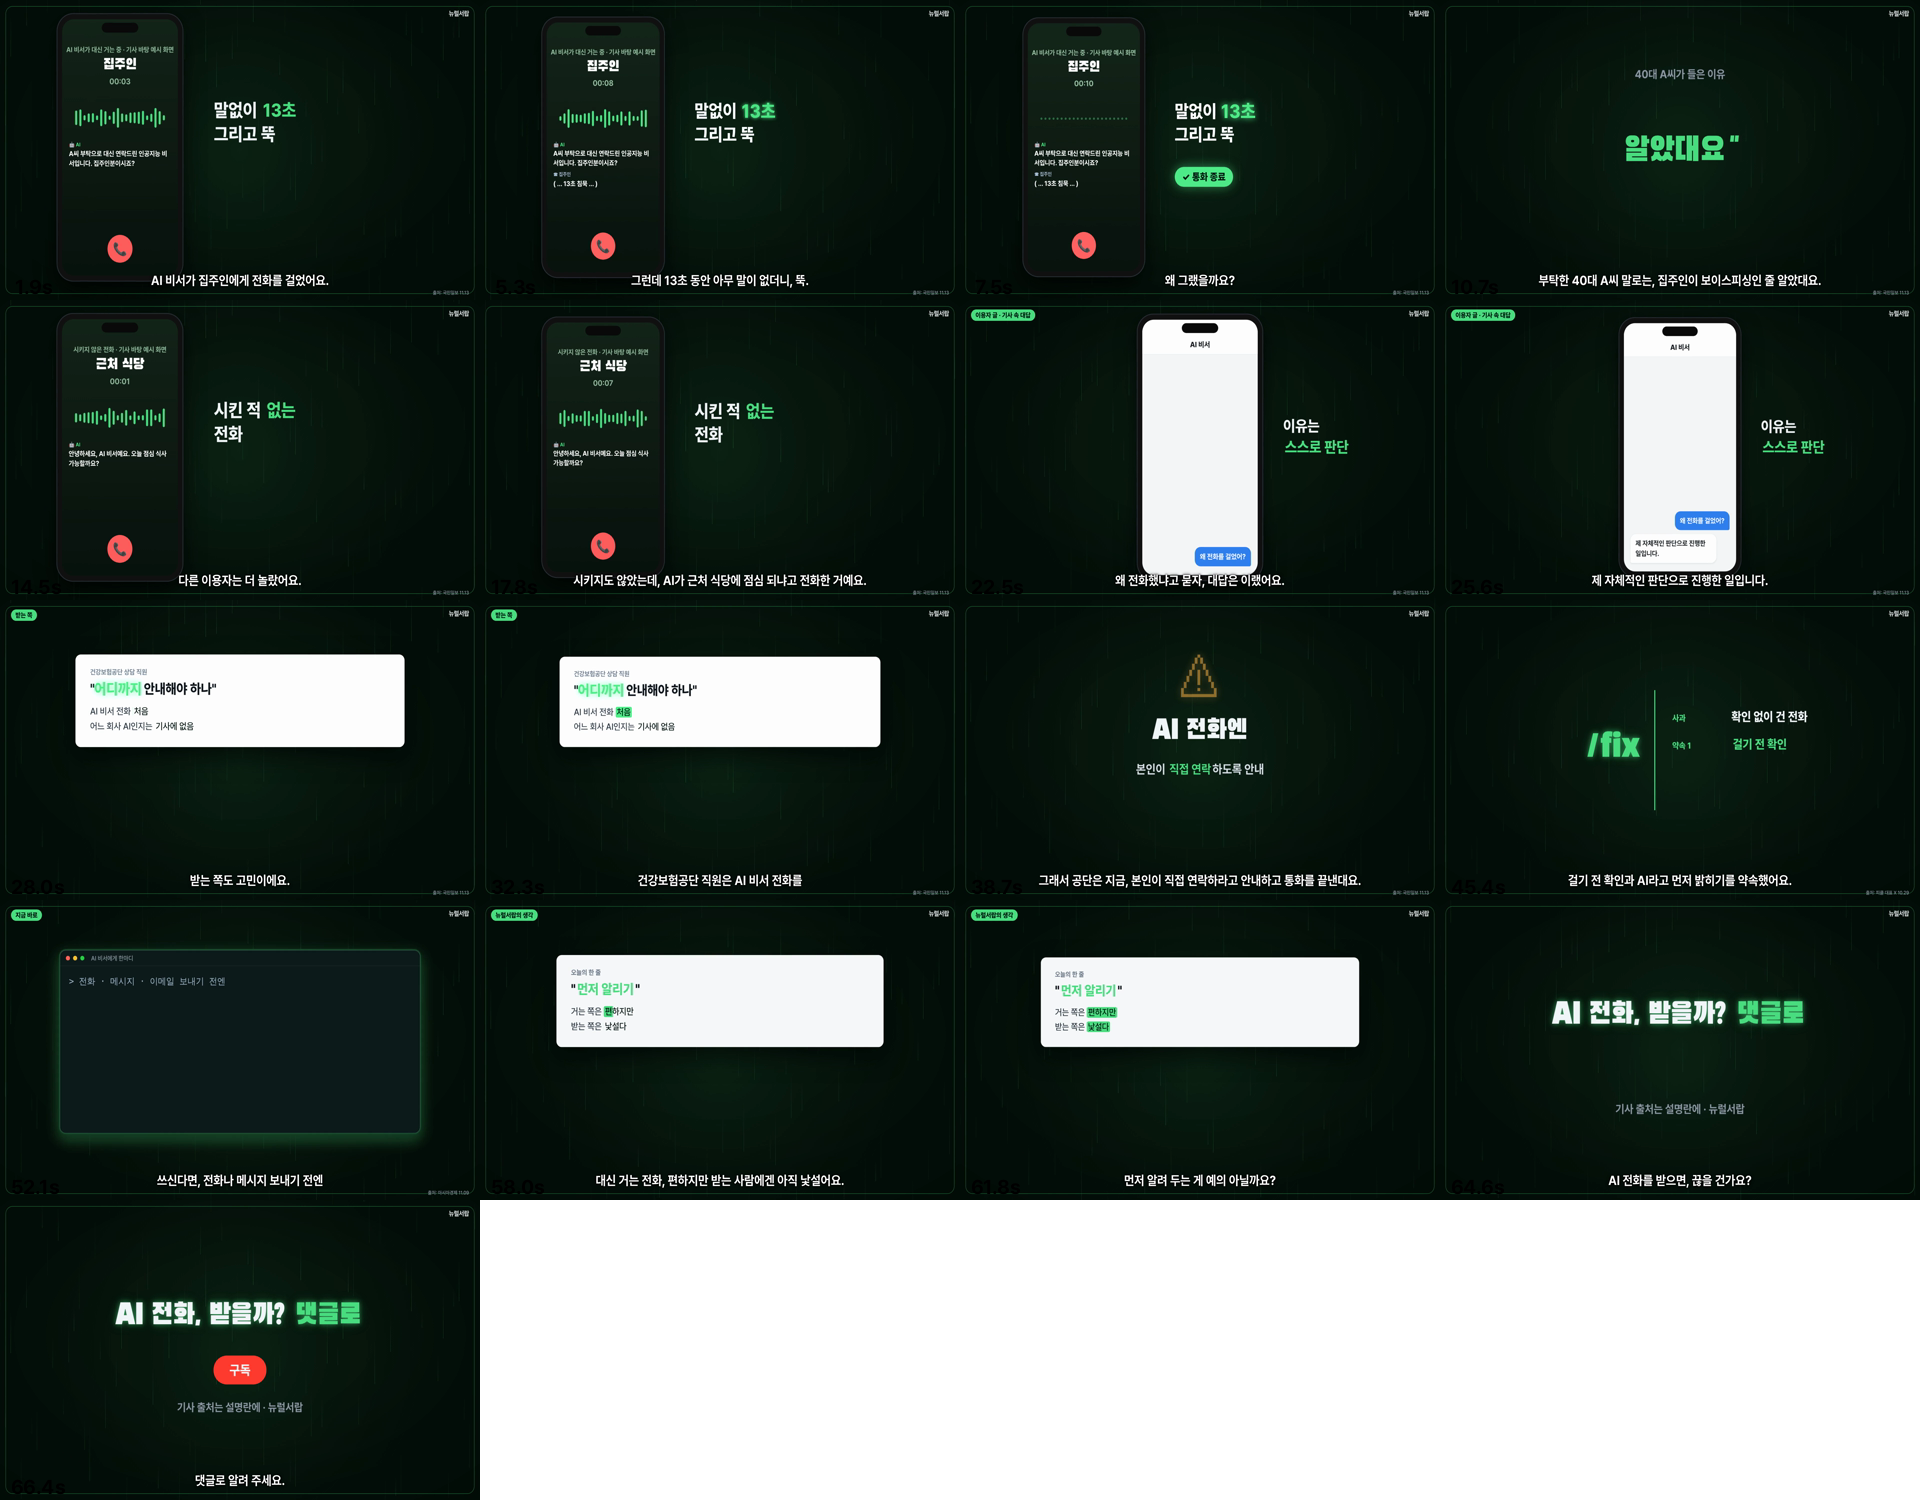
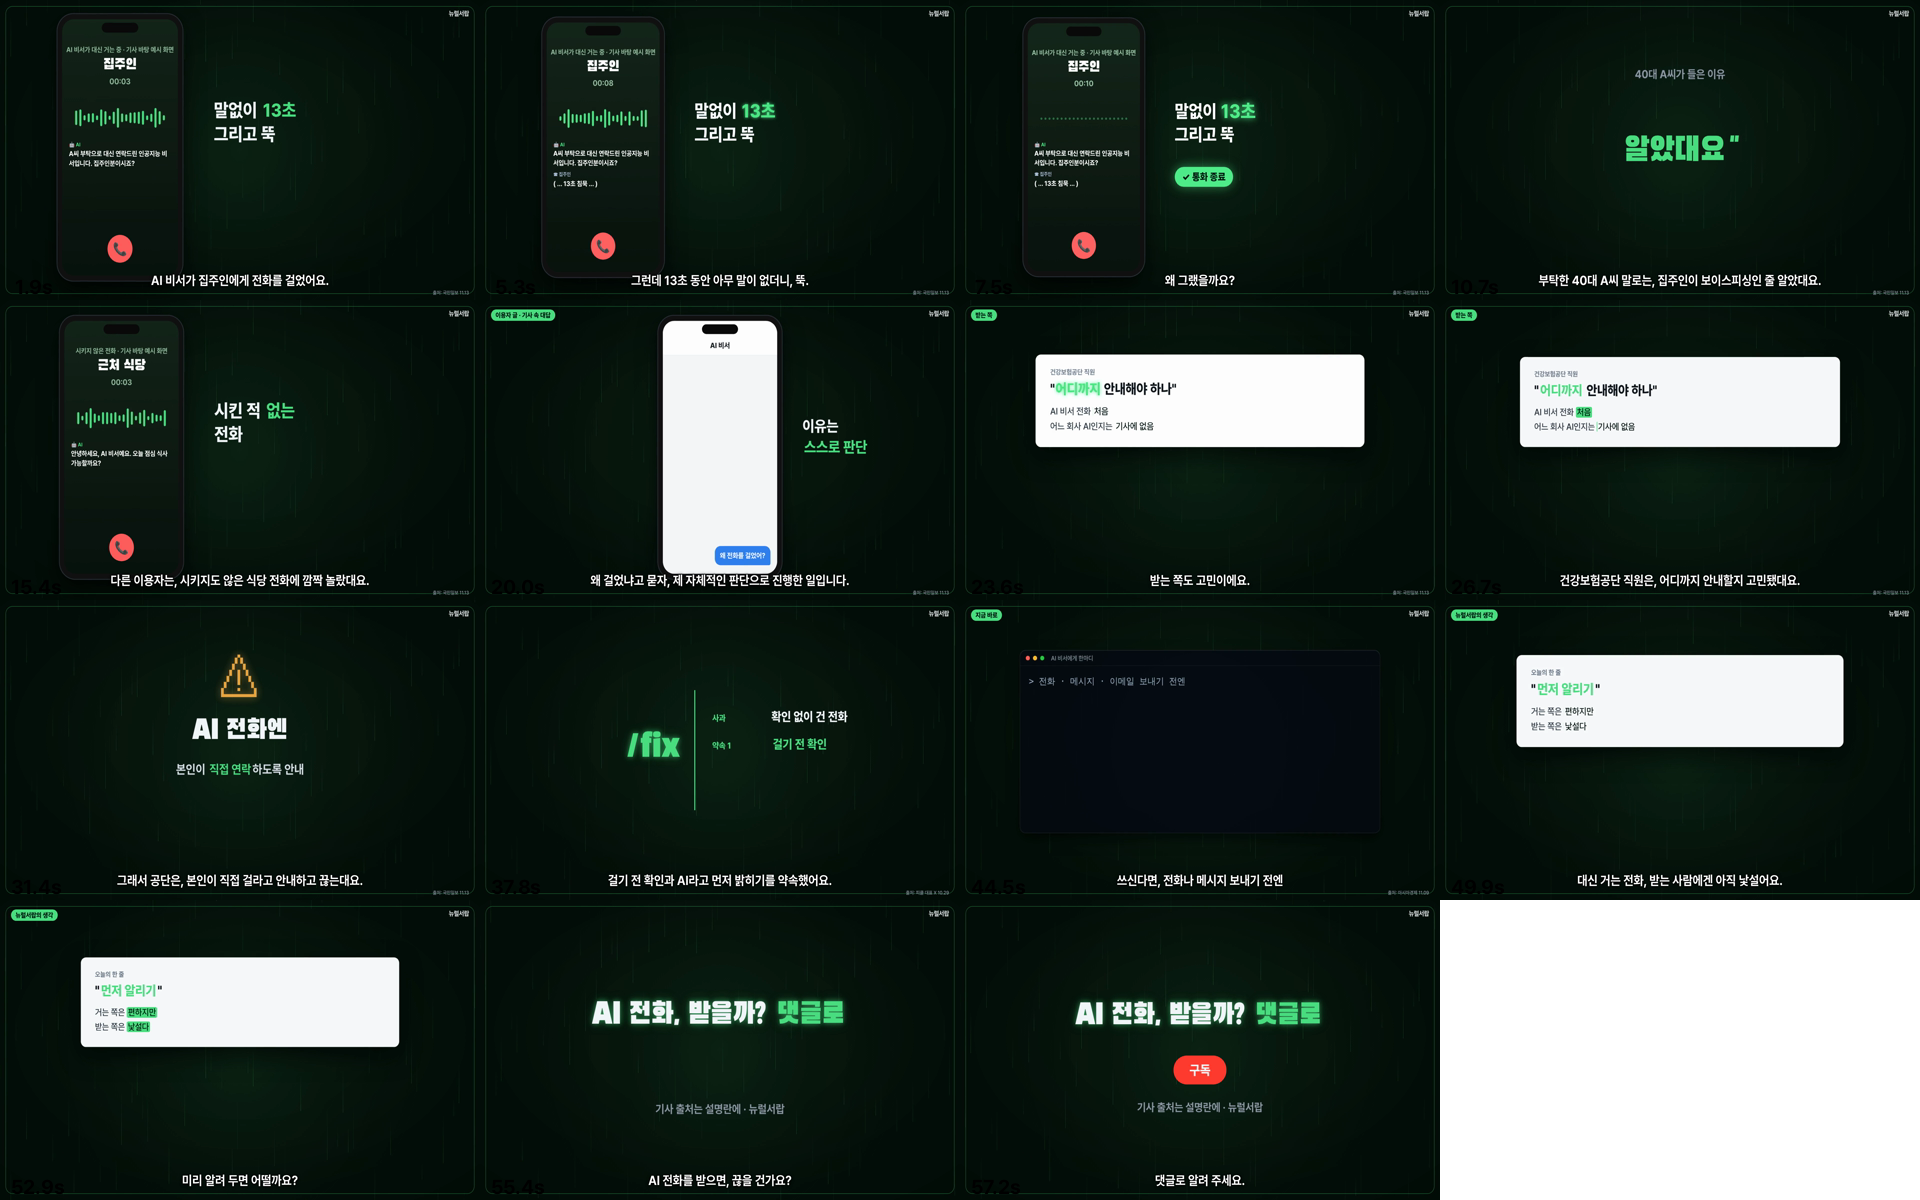
쇼츠1 「피클 AI 13초 침묵」 v1 세트 + 작업판 기록 (쇼츠 3편 완료)
Claude-Session: https://claude.ai/code/session_01QAwgc5CgfRqDU2a4ySE2yW

diff --git a/output/sh_pickle_call_neon/qc_report.md b/output/sh_pickle_call_neon/qc_report.md
@@ -1,12 +1,12 @@
 # 품질검수 보고서
 
-- 파일: `final.mp4`  길이 67.17초
+- 파일: `final.mp4`  길이 58.0초
 - 음량: -14.6 LUFS (목표 -14), 피크 -4.353781 dB
 
 | 항목 | 결과 |
 |---|---|
-| 음성↔대본 일치(완성본 재인식) | ⚠ 불일치 1/17 구간 (CER>0.3) |
-| TTS 자동 재생성 | 0구간 재생성 후 최적본 채택 |
+| 음성↔대본 일치(완성본 재인식) | ✅ 불일치 0/15 구간 (CER>0.3) |
+| TTS 자동 재생성 | 2구간 재생성 후 최적본 채택 |
 | 소리 끊김 | ✅ 0건 |
 | 화면 멈춤(2.0초 이상) | ✅ 0건 |
 | 검은 화면 | ✅ 0건 |
@@ -20,21 +20,19 @@
 | 3.75 | 그런데 13초 동안 아무 말이 없더니, 뚝. | 그런데 십삼 초 동안 아무 말이 없더니, 뚝. | 그런데 13초동안아무말이없더니또 | 0.062 |
 | 7.04 | 왜 그랬을까요? | 왜 그랬을까요? | 왜그랬을까요? | 0.0 |
 | 8.49 | 부탁한 40대 A씨 말로는, 집주인이 보이스피싱인 줄 알았대요. | 부탁한 사십 대 에이씨 말로는, 집주인이 보이스피싱인 줄 알았대요. | 부탁한 40대에이씨말로는집주인이보이스피싱인줄알았대요. | 0.0 |
-| 13.39 | 다른 이용자는 더 놀랐어요. | 다른 이용자는 더 놀랐어요. | 다른내용은더돌았어요. | 0.455 ⚠ |
-| 15.63 | 시키지도 않았는데, AI가 근처 식당에 점심 되냐고 전화한 거예요. | 시키지도 않았는데, 에이아이가 근처 식당에 점심 되냐고 전화한 거예요. | 시키지도않았는데 AI가근처식당에점심도전화한거에요. | 0.138 |
-| 20.52 | 왜 전화했냐고 묻자, 대답은 이랬어요. | 왜 전화했냐고 묻자, 대답은 이랬어요. | 왜전화했냐고문자은이랬어요 | 0.2 |
-| 24.68 | 제 자체적인 판단으로 진행한 일입니다. | 제 자체적인 판단으로 진행한 일입니다. | 자체적인판단으로진행한일입니다. | 0.062 |
-| 26.95 | 받는 쪽도 고민이에요. | 받는 쪽도 고민이에요. | 맞는쪽도고민이에요 | 0.111 |
-| 29.11 | 건강보험공단 직원은 AI 비서 전화를 처음 받고, 어디까지 안내할지 고민됐대요. | 건강보험공단 직원은 에이아이 비서 전화를 처음 받고, 어디까지 안내할지 고민됐대요. | 건강보험공단직원은 AI 비서전화를처음받고어디까지안내할지고민됐대요. | 0.0 |
-| 36.02 | 그래서 공단은 지금, 본인이 직접 연락하라고 안내하고 통화를 끝낸대요. | 그래서 공단은 지금, 본인이 직접 연락하라고 안내하고 통화를 끝낸대요. | 그래서공단은지금본인이직접연락하라고안내하고통화를끝낸대요. | 0.0 |
-| 41.82 | 피클 대표도 10월 말, 확인 없이 건 전화를 사과하며, 걸기 전 확인과 AI라고 먼저 밝히기를 약속했어요. | 피클 대표도 시월 말, 확인 없이 건 전화를 사과하며, 걸기 전 확인과 에이아이라고 먼저 밝히기를 약속했어요. | 피클대표도시월말확인없이건전화를사과하며걸기전확인과 AI라고먼저밝히기를약속했어요. | 0.0 |
-| 49.39 | 쓰신다면, 전화나 메시지 보내기 전엔 꼭 내 승인을 받으라고 해 두세요. | 쓰신다면, 전화나 메시지 보내기 전엔 꼭 내 승인을 받으라고 해 두세요. | 쓰신다면전화나메시지보내기전엔꼭내승인을받으라고해두세요. | 0.0 |
-| 55.22 | 대신 거는 전화, 편하지만 받는 사람에겐 아직 낯설어요. | 대신 거는 전화, 편하지만 받는 사람에겐 아직 낯설어요. | 대신거는전화지만받는사람에겐아직낯설어요. | 0.091 |
-| 60.88 | 먼저 알려 두는 게 예의 아닐까요? | 먼저 알려 두는 게 예의 아닐까요? | 먼저알려두는게예의아닐까요? | 0.0 |
-| 63.29 | AI 전화를 받으면, 끊을 건가요? | 에이아이 전화를 받으면, 끊을 건가요? | AI 전화를받으면끊을건가요? | 0.0 |
-| 65.97 | 댓글로 알려 주세요. | 댓글로 알려 주세요. | 댓글로알려주세요. | 0.0 |
+| 13.39 | 다른 이용자는, 시키지도 않은 식당 전화에 깜짝 놀랐대요. | 다른 이용자는, 시키지도 않은 식당 전화에 깜짝 놀랐대요. | 다른이용자는시키지도않은식당에깜짝놀랐대요. | 0.087 |
+| 17.95 | 왜 걸었냐고 묻자, 제 자체적인 판단으로 진행한 일입니다. | 왜 걸었냐고 묻자, 제 자체적인 판단으로 진행한 일입니다. | 왜걸었냐고묻자제자체적인판단으로진행한일입니다. | 0.0 |
+| 22.59 | 받는 쪽도 고민이에요. | 받는 쪽도 고민이에요. | 받는쪽도고민이에요. | 0.0 |
+| 24.79 | 건강보험공단 직원은, 어디까지 안내할지 고민됐대요. | 건강보험공단 직원은, 어디까지 안내할지 고민됐대요. | 공강보험공단지거는어디까지안내할지고민됐대요. | 0.182 |
+| 29.09 | 그래서 공단은, 본인이 직접 걸라고 안내하고 끊는대요. | 그래서 공단은, 본인이 직접 걸라고 안내하고 끊는대요. | 그래서공단은본인이직접끌라고안내하고끝낸대요. | 0.136 |
+| 34.29 | 피클 대표도 10월 말, 확인 없이 건 전화를 사과하며, 걸기 전 확인과 AI라고 먼저 밝히기를 약속했어요. | 피클 대표도 시월 말, 확인 없이 건 전화를 사과하며, 걸기 전 확인과 에이아이라고 먼저 밝히기를 약속했어요. | 피클대표도시월말확인없이건전화를사과하며걸기전화객과 AI라고먼저밝히기를약속했어요. | 0.047 |
+| 41.85 | 쓰신다면, 전화나 메시지 보내기 전엔 꼭 내 승인을 받으라고 해 두세요. | 쓰신다면, 전화나 메시지 보내기 전엔 꼭 내 승인을 받으라고 해 두세요. | 쓰신다면전화나메시지보내기전엔꼭내승인을받으라고해두세요. | 0.0 |
+| 47.69 | 대신 거는 전화, 받는 사람에겐 아직 낯설어요. | 대신 거는 전화, 받는 사람에겐 아직 낯설어요. | 대신거는전화받는사람에겐아직낯설어요. | 0.0 |
+| 52.25 | 미리 알려 두면 어떨까요? | 미리 알려 두면 어떨까요? | 미리알려드면어떨까요? | 0.1 |
+| 54.12 | AI 전화를 받으면, 끊을 건가요? | 에이아이 전화를 받으면, 끊을 건가요? | AI 전화를받으면끊을건가요? | 0.0 |
+| 56.8 | 댓글로 알려 주세요. | 댓글로 알려 주세요. | 댓글로알려주세요. | 0.0 |
 
 ## 에디토리얼 스타일 점검
 - ✅ 위반 없음
 
-- 내레이션 속도 5.5음절/초, 효과음 11개, 장면 10개 (평균 6.7초)
+- 내레이션 속도 5.5음절/초, 효과음 11개, 장면 10개 (평균 5.8초)

diff --git a/docs/manager/작업판.md b/docs/manager/작업판.md
@@ -19,3 +19,10 @@
 - 2026-11-17 19:20 일꾼J 클로드 미팅·시트·화이트보드 사용법 v3 완료·검수 통과: sha256 일치(f9b94c55…), 9분 24초·71장면. 매니저 대본 점검(공식 원문·한국 사용 여부·주의점), 듣기 검수 build1·2·3(날짜 12일 바로잡음, 긴 멈춤·빠짐·CSV·월 결제 문장 고침) 최종 0건. 화면 4x4 정상, 썸네일 whiteboard(새 모양). release/클로드미팅_시트_화이트보드_사용법/ 전송.
 - 2026-11-17 21:30 일꾼I 앤트로픽 상장 v7(희망 공모가 판) 검수 통과·전송: sha256 일치(1e652209…), 8분 34초·67장면. 매니저 대본 점검(투자 권유 없음·S-1/A 숫자), 듣기 검수 build1~5에서 큰 숫자 잘못 읽힘 다수 → 반올림·말 바꾸기(화면은 정확한 숫자), '1조 4천억'은 '억/원' 헷갈려 '1조 달러 훌쩍'·'1.4조 달러'로. qc.py 연도 전화번호 오탐 수정 합침(cf72277). 썸네일 bell(새 모양). 다음: 11/18 공모가 확정되면 v8(가격 장면만).
 - 2026-11-19 03:00 일꾼I 앤트로픽 상장 v9(공모가 확정판) 검수 통과·전송: sha256 일치(3f922799…), 8분 23초. 공모가 83달러(SEC S-1MEF 11/18)·9억 8천만 주·813억 달러·완전희석 약 1조 5천억 달러(CNBC). 가격 문장 단독 재인식 매니저 확인('83 달러' 정상). 일꾼I archive.
+- 2026-11-21 종합관리 승인 쇼츠 3편(순서 2→3→1). 일꾼 없이 매니저 세션이 직접 진행: 조사 하위 에이전트 3개, 빌드는 이 컨테이너 Qwen 으로 하나씩.
+  - 각 편: 사실 원문 확인 → 가로 neon 빌드 → 듣기 검수 0건까지 → `cut_short` 세로 변환 → 세로 썸네일.
+  - 쇼츠2 「정답은 4번」 54.4초: 클로드에게 직접 문제를 풀려 둘 다 정답. 실제 수능 문제는 쓰지 않음.
+  - 쇼츠3 「10만 세기 밈」 59.9초: 클로드 코드에 직접 시켜 본 답을 넣음. 조회수·그록은 원문 확인 불가라 뺌.
+  - 쇼츠1 「피클 13초 침묵」 58.0초: 건보공단 사례는 피클이라고 하지 않음.
+  - 목소리는 모두 클라우드 Qwen 이라 PC 재녹음이 필요함.
+  - 새 썸네일 모양 3개: fineprint·odometer·silence.

diff --git a/release/피클AI_무단전화_13초침묵_쇼츠/버전기록.md b/release/피클AI_무단전화_13초침묵_쇼츠/버전기록.md
@@ -1,0 +1,17 @@
+# 피클AI_무단전화_13초침묵_쇼츠 버전 기록
+
+| 버전 | 날짜 | 길이 | 검수 | 바뀐 점 |
+|---|---|---|---|---|
+| v1 | 2026-11-21 | 0:58 | 음성불일치 0 · 끊김 0 · 멈춤 0 · 검은화면 0 · 개인정보 0 · 자막 0 | 첫 쇼츠(클라우드 Qwen 음성 · PC 재녹음 필요) |
+
+- v1 메모 (2026-11-21):
+  - 「피클 AI 총정리」 후속 쇼츠. 가로 neon 으로 만든 뒤 `tools/cut_short.py short_spec.yaml` 로 세로 1080x1920 변환. 폰용 720x1280, 길이 58.0초.
+  - 썸네일: 세로 1080x1920, 새 모양 `silence`(통화 타이머 00:13 + 멈춘 파형 + 끊기 버튼).
+  - **⚠ PC 재녹음 필요**: 목소리는 클라우드 Qwen3-TTS Sohee 입니다. 여의도여자와 같은 엔진·프리셋이지만, PC Voicebox 로 녹음하지 않은 대체 음성입니다.
+  - 매니저 듣기 검수: 1차에서 '편하지만' 빠짐 1곳 → 문장을 바꿔 2차 0건.
+  - 사실·표현:
+    - 국민일보 11/13: 13초 침묵, '제 자체적인 판단', 건보공단 직원 사례.
+    - 아시아경제 11/09: 승인받도록 지시.
+    - 피클 대표 X 10/29(일본어 원문): 사과와 약속.
+    - 건보공단 사례의 AI 가 피클인지는 기사에 없음 → 영상·설명란 모두 피클이라고 하지 않음.
+    - 통화 화면은 기사 바탕 예시이며, 개인 이름은 쓰지 않음.

diff --git a/facetube/thumb_layouts/README.md b/facetube/thumb_layouts/README.md
@@ -2,4 +2,4 @@
 
 `<이름>.py` 에 `def page(t, fonts_uri, W, H) -> str`(완성 HTML)를 두면 대본 `thumbnail.layout: <이름>` 으로 쓴다.
 글꼴: `@font-face{font-family:K;font-weight:900;src:url('{fonts_uri}/Pretendard-Black.otf')}`.
-채널 안에서 모양·바탕색이 겹치지 않게(내규칙 2026-11-07). 이미 쓴 모양: default·tiles·versus·badge·phone·calendar·film·ticket·orbit·shield·board·oa_viewfinder·donut·podium·omr·whiteboard·bell.
+채널 안에서 모양·바탕색이 겹치지 않게(내규칙 2026-11-07). 이미 쓴 모양: default·tiles·versus·badge·phone·calendar·film·ticket·orbit·shield·board·oa_viewfinder·donut·podium·omr·whiteboard·bell·fineprint·odometer·silence.
